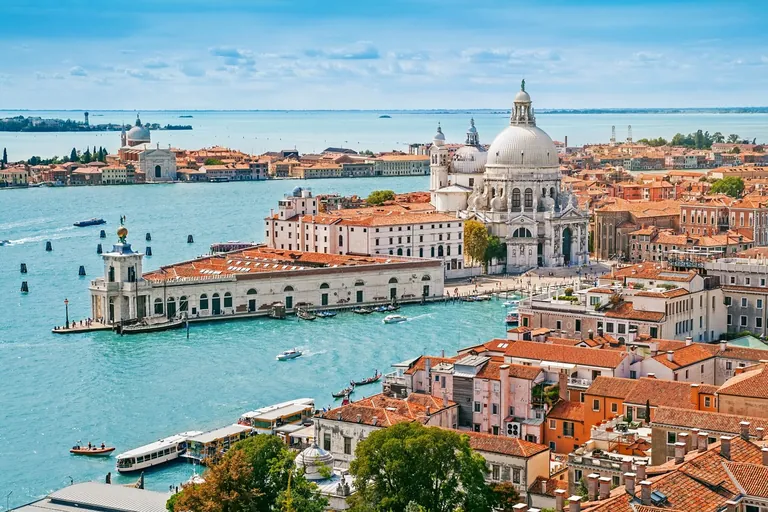
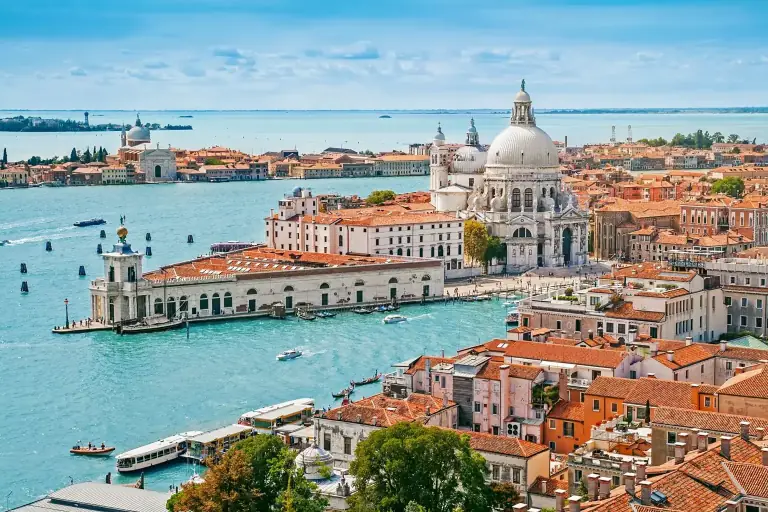
Fix carousel image loading and update wishlist details (#10)
Show each selected wish's preview until its responsive photo is decoded, preload neighbouring photos, and prevent stale requests from changing the current slide. Reduce larger WebP assets and apply the requested captions and Rare Beauty link.

diff --git a/site/app.js b/site/app.js
@@ -7,24 +7,84 @@ const selected = document.querySelector('.selected-card');
 const announcement = document.querySelector('#announcement');
 const viewButtons = [...document.querySelectorAll('[data-view]')];
 let index = 0;
+let selection = 0;
+const imageCache = new Map();
+const selectedSizes = '(max-width: 760px) calc(100vw - 84px), (max-height: 680px) and (min-width: 761px) calc((min(74vw, 760px) - 72px) / 2), min(50vw, max(432px, calc((60vh - 176px) * 1.92)))';
 
-function fillCard(card, item) {
-  const previousImage = card.querySelector('img');
-  // A reused <img> can keep painting its previous bitmap while the next
-  // request is pending. Give each selected wish its own image request state.
-  const isSelected = card.classList.contains('selected-card');
-  const img = isSelected ? previousImage.cloneNode(false) : previousImage;
-  img.src = item.image;
-  img.srcset = `/assets/${item.id}-768.webp 768w, ${item.image} ${item.width || 1536}w`;
-  img.sizes = card.classList.contains('selected-card')
-    ? '(max-width: 760px) calc(100vw - 84px), (max-height: 680px) and (min-width: 761px) calc((min(74vw, 760px) - 72px) / 2), min(50vw, max(432px, calc((60vh - 176px) * 1.92)))'
-    : '(max-width: 480px) calc(100vw - 68px), (max-width: 760px) 40vw, 26vw';
+function describeImage(img, item) {
   img.alt = item.alt;
   img.width = item.width || 1536;
   img.height = item.height || 1024;
   img.style.objectFit = item.fit || 'cover';
   img.style.backgroundColor = item.background || 'transparent';
-  if (isSelected) previousImage.replaceWith(img);
+}
+
+function loadImage(item, priority = 'low', img = document.createElement('img')) {
+  if (imageCache.has(item.id)) {
+    const cached = imageCache.get(item.id);
+    cached.img.fetchPriority = priority;
+    return cached;
+  }
+  describeImage(img, item);
+  img.className = 'selected-image';
+  img.fetchPriority = priority;
+  img.decoding = 'async';
+  // Configure responsive selection before src to avoid a fallback request.
+  img.sizes = selectedSizes;
+  img.srcset = `/assets/${item.id}-768.webp 768w, ${item.image} ${item.width || 1536}w`;
+  img.src = item.image;
+  const entry = { img, loaded: false };
+  imageCache.set(item.id, entry);
+  entry.ready = img.decode().then(() => {
+    entry.loaded = true;
+    return true;
+  }, () => {
+    if (imageCache.get(item.id) === entry) imageCache.delete(item.id);
+    return false;
+  });
+  return entry;
+}
+
+function showSelectedImage(item) {
+  const currentSelection = ++selection;
+  const previousImage = selected.querySelector('img');
+  // Reuse the initial HTML image and its request. Later selections immediately
+  // show their own tiny preview until the responsive photo is decoded.
+  const entry = loadImage(item, 'high', currentSelection === 1 ? previousImage : undefined);
+  const preview = document.createElement('img');
+  describeImage(preview, item);
+  preview.className = 'selected-image';
+  preview.src = `/assets/${item.id}-192.webp`;
+  if (currentSelection !== 1) previousImage.replaceWith(entry.loaded ? entry.img : preview);
+  const nearby = [-1, 0, 1].map(offset => items[wrapIndex(index + offset, items.length)].id);
+  for (const [id, cached] of imageCache) {
+    if (nearby.includes(id)) continue;
+    imageCache.delete(id);
+    if (!cached.loaded) {
+      cached.img.removeAttribute('src');
+      cached.img.removeAttribute('srcset');
+    }
+  }
+  entry.ready.then(loaded => {
+    if (selection !== currentSelection) return;
+    const displayed = selected.querySelector('img');
+    if (displayed !== entry.img || !loaded) displayed.replaceWith(loaded ? entry.img : preview);
+    if (!loaded || gallery.hidden) return;
+    // Warm only the adjacent slides, after the selected photo has loaded.
+    for (const offset of [-1, 1]) loadImage(items[wrapIndex(index + offset, items.length)]);
+  });
+}
+
+function fillCard(card, item) {
+  if (card === selected) {
+    showSelectedImage(item);
+  } else {
+    const img = card.querySelector('img');
+    describeImage(img, item);
+    img.sizes = '(max-width: 480px) calc(100vw - 68px), (max-width: 760px) 40vw, 26vw';
+    img.srcset = `/assets/${item.id}-768.webp 768w, ${item.image} ${item.width || 1536}w`;
+    img.src = item.image;
+  }
   card.querySelector('h2').textContent = item.title;
   const description = card.querySelector('p');
   description.textContent = item.description;

diff --git a/site/index.html b/site/index.html
@@ -30,8 +30,8 @@
       <section class="gallery" aria-label="Желания" aria-roledescription="карусель" tabindex="0">
         <div class="gallery-side gallery-side-left">
           <button class="arrow" type="button" data-direction="-1" aria-label="Предыдущее желание"><svg viewBox="0 0 24 24" aria-hidden="true"><path d="m14 5-7 7 7 7"/></svg></button>
-          <button class="preview" type="button" aria-label="Выбрать: Гель для умывания Janssen Cosmetics"><img src="/assets/janssen-cleanser-192.webp" width="192" height="192" alt=""></button>
-          <button class="preview" type="button" aria-label="Выбрать: Кружка с блюдцем"><img src="/assets/new-garden-mug-192.webp" width="192" height="256" alt=""></button>
+          <button class="preview" type="button" aria-label="Выбрать: Такая кружка с блюдцем"><img src="/assets/new-garden-mug-192.webp" width="192" height="256" alt=""></button>
+          <button class="preview" type="button" aria-label="Выбрать: Набор брелоков KAWS UNIVERSE × UNIQLO"><img src="/assets/kaws-universe-set-192.webp" width="192" height="128" alt=""></button>
         </div>
         <article class="selected-card" aria-label="Варенье из лепестков роз">
           <img class="selected-image" src="/assets/rose-jam-1536.webp" srcset="/assets/rose-jam-768.webp 768w, /assets/rose-jam-1536.webp 1536w" sizes="(max-width: 760px) calc(100vw - 84px), (max-height: 680px) and (min-width: 761px) calc((min(74vw, 760px) - 72px) / 2), min(50vw, max(432px, calc((60vh - 176px) * 1.92)))" width="1536" height="1024" alt="Варенье из лепестков роз на керамической тарелке с золотистой ложкой" fetchpriority="high">
@@ -42,7 +42,7 @@
           </div>
         </article>
         <div class="gallery-side gallery-side-right">
-          <span class="counter" aria-hidden="true">1/20</span>
+          <span class="counter" aria-hidden="true">1/21</span>
           <button class="preview" type="button" aria-label="Выбрать: Гидрогелевые патчи"><img src="/assets/hydrogel-patches-192.webp" width="192" height="128" alt=""></button>
           <button class="preview" type="button" aria-label="Выбрать: Кимоно с журавлями"><img src="/assets/crane-kimono-192.webp" width="192" height="256" alt=""></button>
           <button class="arrow" type="button" data-direction="1" aria-label="Следующее желание"><svg viewBox="0 0 24 24" aria-hidden="true"><path d="m10 5 7 7-7 7"/></svg></button>

diff --git a/site/items.js b/site/items.js
@@ -17,7 +17,7 @@ export const items = [
   {
     id: 'crane-kimono',
     title: 'Кимоно с журавлями',
-    description: 'Размер M.',
+    description: 'Размер M',
     image: '/assets/crane-kimono-1536.webp',
     width: 1536,
     height: 2048,
@@ -29,7 +29,7 @@ export const items = [
   {
     id: 'velvet-pouch',
     title: 'Бархатная сумочка-мешочек',
-    description: 'На цепочке или витом шнуре с кистями. Вышивка нитками: луна, звёзды или другие мистические мотивы.',
+    description: 'На цепочке или витом шнуре с кистями, вышивка нитками: луна, звёзды или другие мистические мотивы',
     image: '/assets/velvet-pouch-1200.webp',
     width: 1200,
     height: 1503,
@@ -184,18 +184,19 @@ export const items = [
   {
     id: 'rare-beauty-highlighter',
     title: 'Хайлайтер Rare Beauty',
-    description: 'Оттенок Mesmerize.',
+    description: 'Оттенок Mesmerize (сухой в пудре)',
     image: '/assets/rare-beauty-highlighter-1536.webp',
     width: 1536,
     height: 1536,
     fit: 'contain',
     background: '#f2f2f3',
     alt: 'Хайлайтер Rare Beauty в розовом футляре',
+    url: 'https://www.mercadolibre.com.ar/rare-beauty-highlighter-mesmerize-tono-del-iluminador-rosa-gold/p/MLA27976835',
   },
   {
     id: 'janssen-cleanser',
-    title: 'Гель для умывания Janssen Cosmetics',
-    description: '200 мл.',
+    title: 'Гель для умывания Janssen Cosmetics, 200 мл',
+    description: '',
     image: '/assets/janssen-cleanser-1536.webp',
     width: 1536,
     height: 1536,
@@ -205,8 +206,8 @@ export const items = [
   },
   {
     id: 'new-garden-mug',
-    title: 'Кружка с блюдцем',
-    description: 'Продаётся в New Garden.',
+    title: 'Такая кружка с блюдцем',
+    description: 'Продаётся в New Garden',
     image: '/assets/new-garden-mug-1536.webp',
     width: 1536,
     height: 2048,
@@ -217,7 +218,7 @@ export const items = [
   {
     id: 'kaws-universe-set',
     title: 'Набор брелоков KAWS UNIVERSE × UNIQLO',
-    description: 'Bag Charm Set of 3: Солнце, Земля и Луна.',
+    description: 'Bag Charm Set of 3: Солнце, Земля и Луна',
     image: '/assets/kaws-universe-set-1536.webp',
     width: 1536,
     height: 1024,

diff --git a/docs/wishlist-design.md b/docs/wishlist-design.md
@@ -235,3 +235,41 @@ There are no console errors; the temporary viewport override was reset.
 `npm run preflight` passes 32 harness, six site and eight production tests,
 the build and syntax checks. Delivery measures 1072ms first paint and 1278ms
 full load against the unchanged 1066ms / 1271ms baseline.
+
+## Carousel loading and copy revision — 2026-10-15
+
+Rare Beauty now specifies “Оттенок Mesmerize (сухой в пудре)” and links to the
+user's Mercado Libre listing. Janssen's 200 мл is in its heading, the mug is
+“Такая кружка с блюдцем”, and lower captions have no full stops.
+
+Previously, every selection replaced the visible image with an undecoded
+image, leaving an empty frame during network loading. Cloning also retained
+the previous responsive attributes before assigning the next sources. The
+carousel now shows the selected wish's 192px preview while its responsive
+photo loads and decodes. A selection token prevents older completions from
+changing the latest slide. A failed full photo leaves its preview visible and
+can retry on a later visit. Only the current and two adjacent photo elements
+are cached; distant pending requests are released. Adjacent photos preload
+at low priority after the selected photo finishes. Grid photos remain lazy.
+
+Twenty-seven larger WebP assets were re-encoded with cwebp 1.6.0, quality 72,
+method 6, retaining their dimensions and composition. Their combined size
+falls from 4,739,918 to 3,796,980 bytes (19.9%). Italy's largest image falls
+from 404,904 to 279,350 bytes. Initial HTML previews and counter now match the
+21-item list, including KAWS. This corrects the initially stale neighbour
+requests; delivery remains within the unchanged baseline tolerance.
+
+Chrome QA on 2026-10-15:
+
+- A temporary local server delayed full photos by 1.5 seconds. All 42 rapid
+  forward selections showed a loaded image; 18 used the correct preview
+  while the full photo was pending. There were no blank frames.
+- All 105 carousel cases at 1512×770, 390×844, 360×640, 844×390 and 1024×640
+  showed a loaded image and the full footer without page overflow.
+- The grid and carousel show the revised captions and Rare Beauty link.
+  No console warnings or errors were captured; viewport overrides were reset.
+- Nine site tests cover delayed/out-of-order decoding, fast navigation,
+  neighbour reuse, pending cancellation, failure/retry and navigation paths.
+  Preflight also passes 32 harness and eight production tests plus syntax,
+  build, repository and delivery checks. Delivery is 1112ms first paint and
+  1321ms full load against the unchanged 1066ms / 1271ms baseline.
